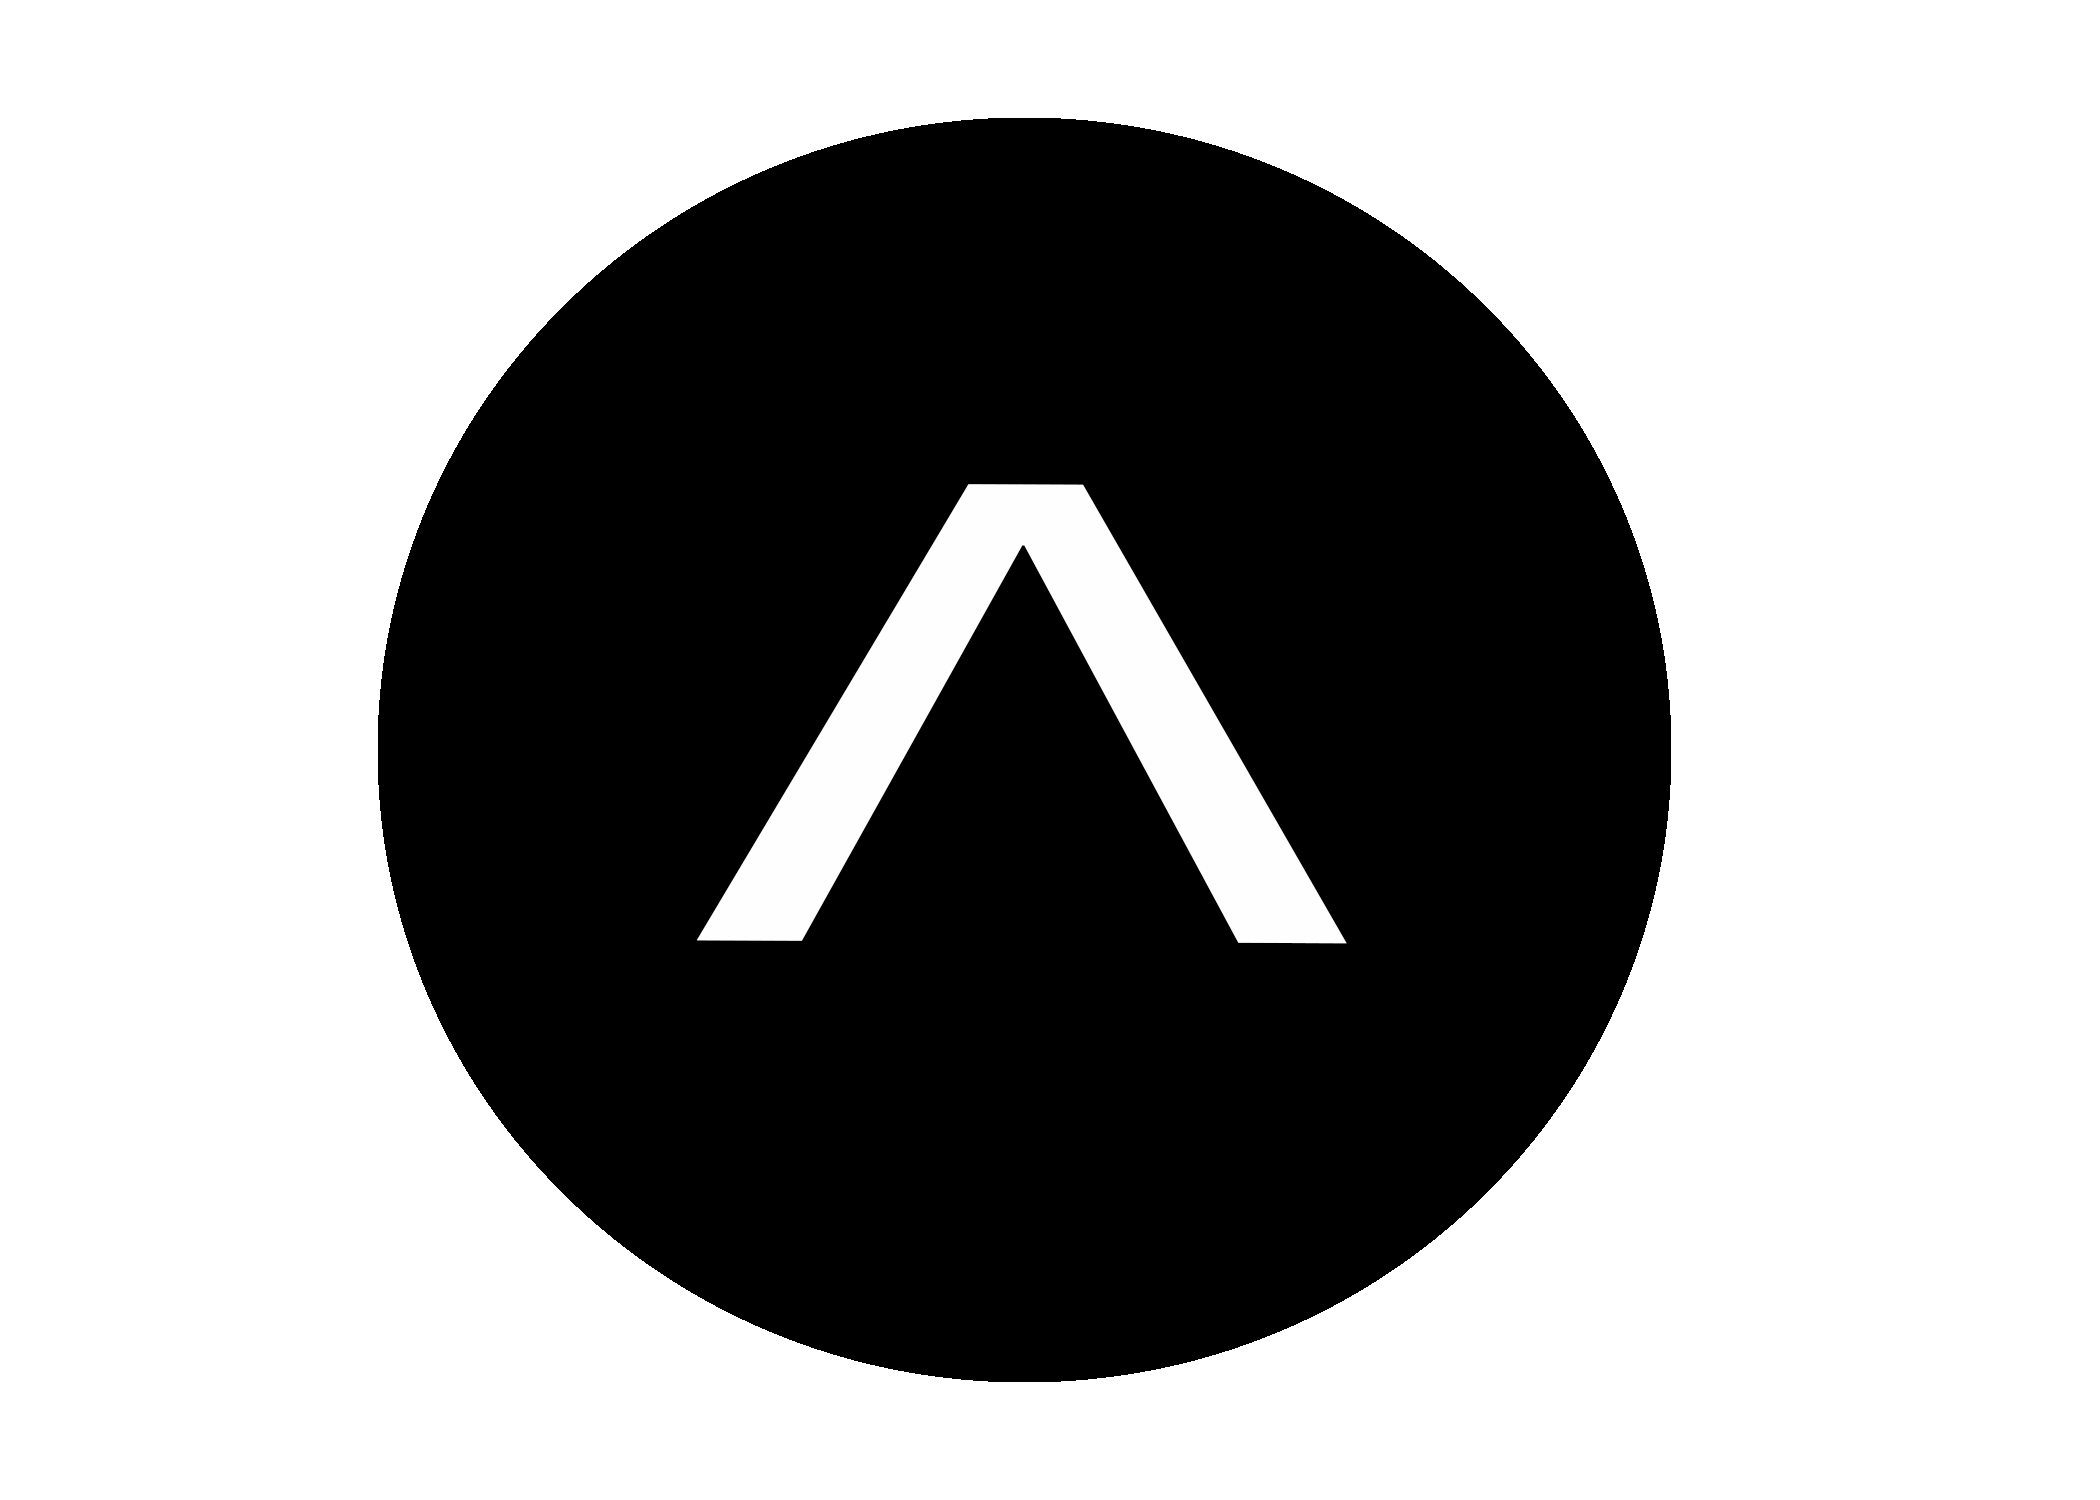
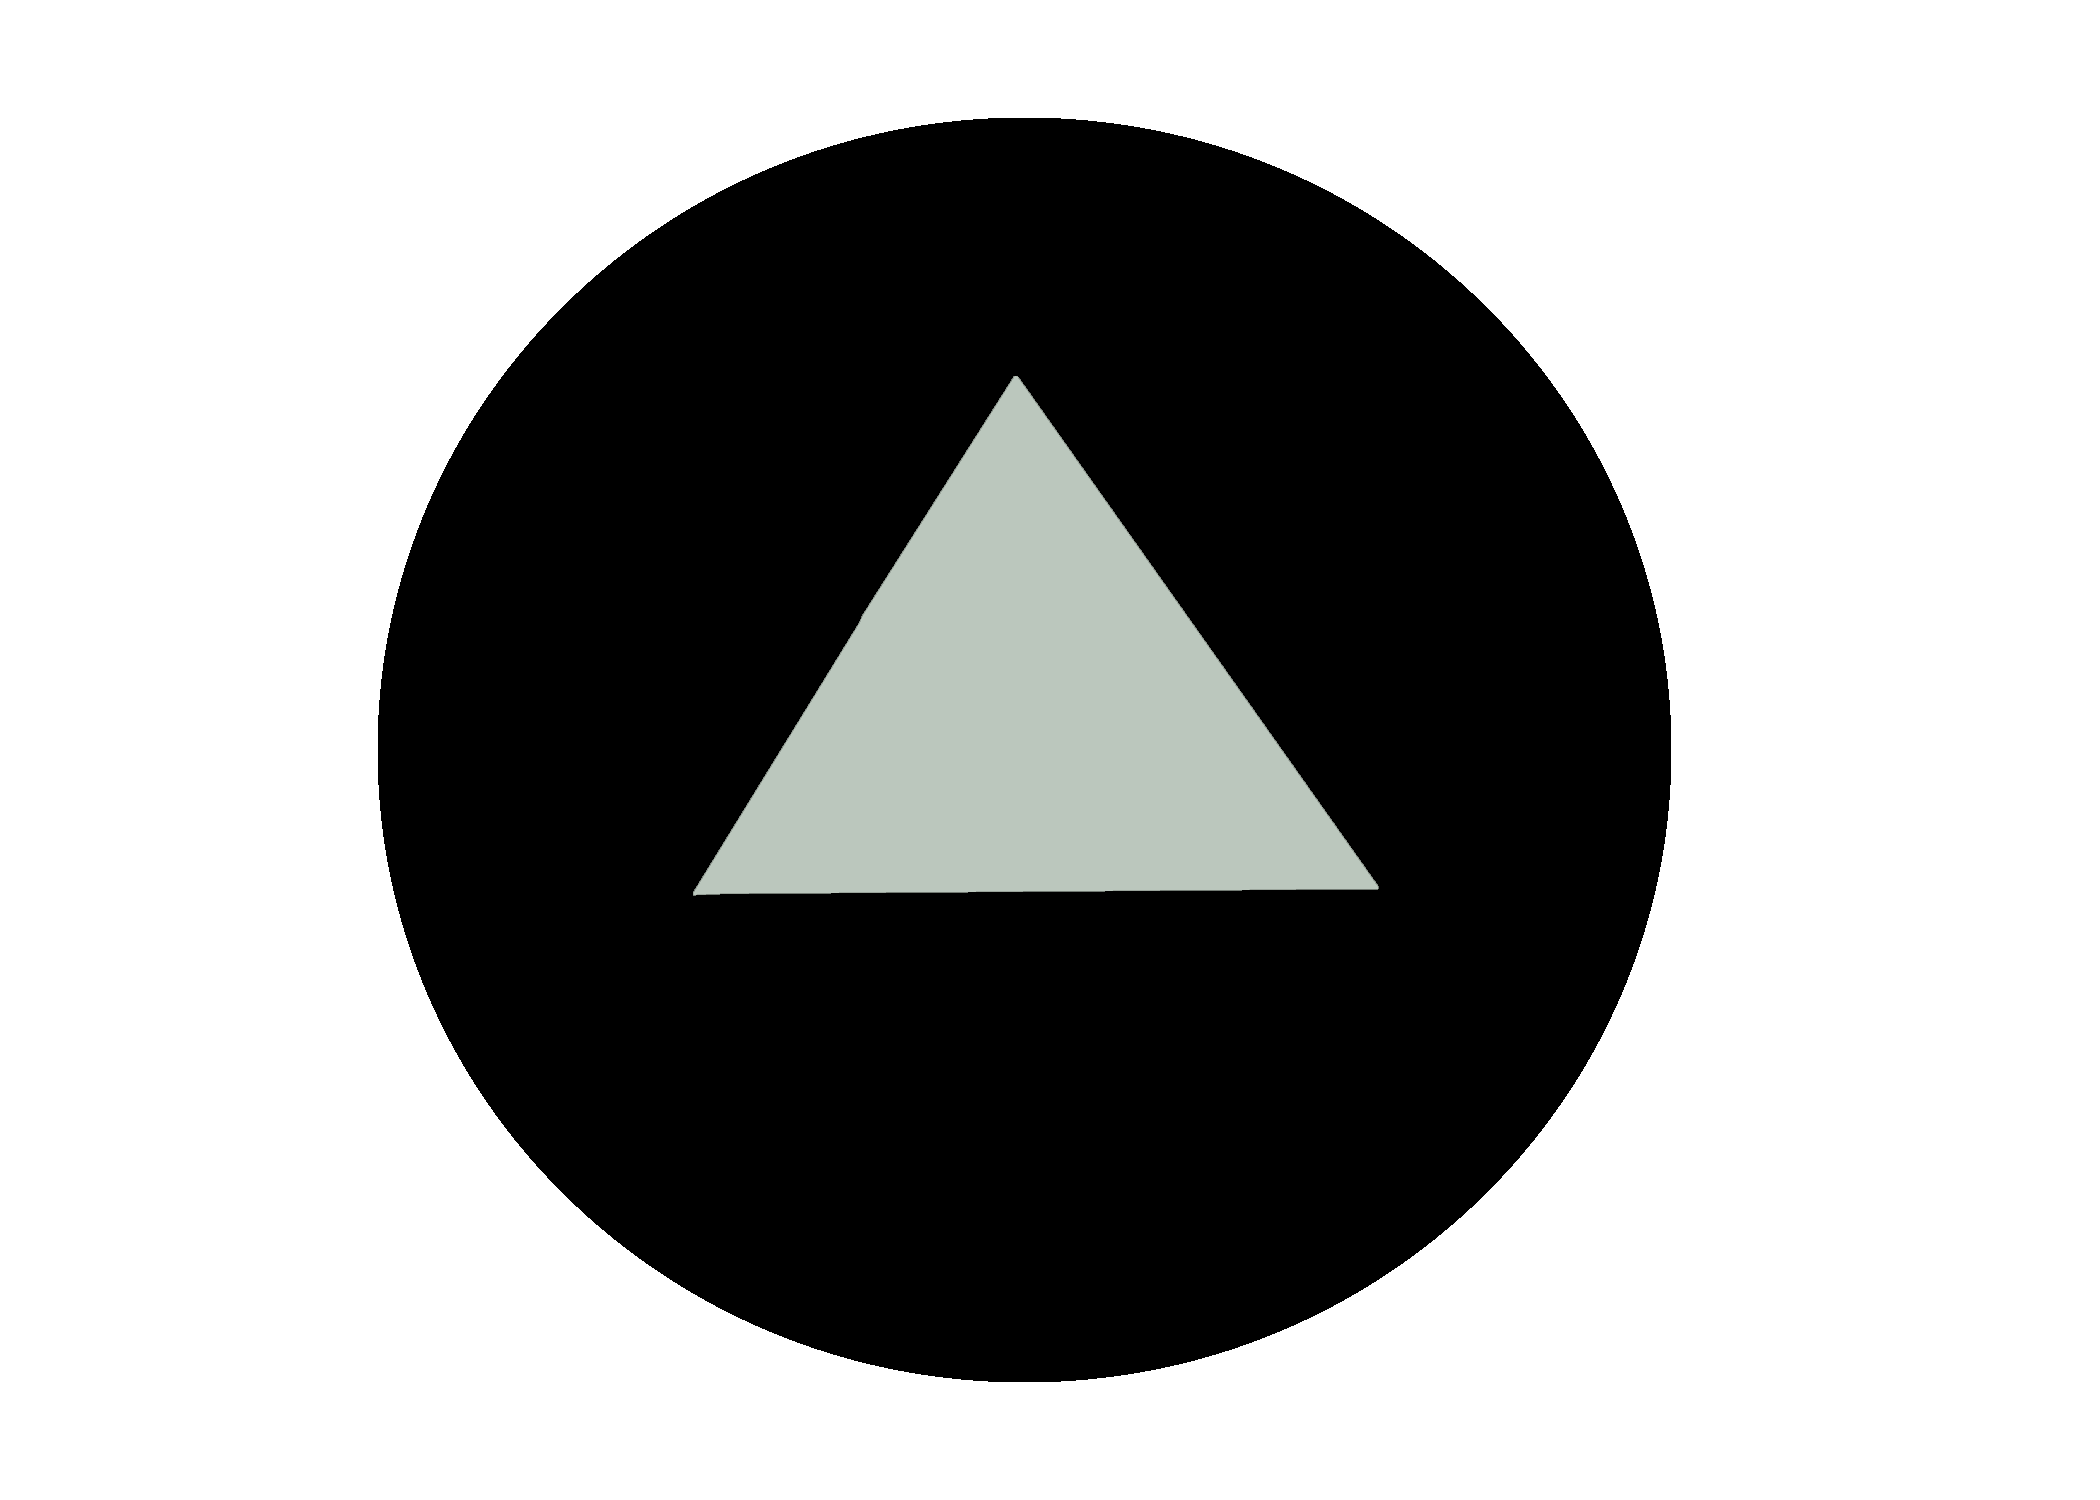
back to top

Changed region(s): [[0.3095, 0.2453, 0.65, 0.644]]

diff --git a/actor/actor.css b/actor/actor.css
@@ -566,7 +566,7 @@ textarea {
 }
 
 .footer p {
-  color: white;
+  color: rgb(187, 199, 189);
   font-size: 14px;
   margin: 0;
   margin-top: -1%;

diff --git a/developer/developer.css b/developer/developer.css
@@ -630,7 +630,7 @@ textarea {
 }
 
 .footer p {
-  color: white;
+  color: rgb(187, 199, 189);
   font-size: 14px;
   margin: 0;
   margin-top: -1%;
